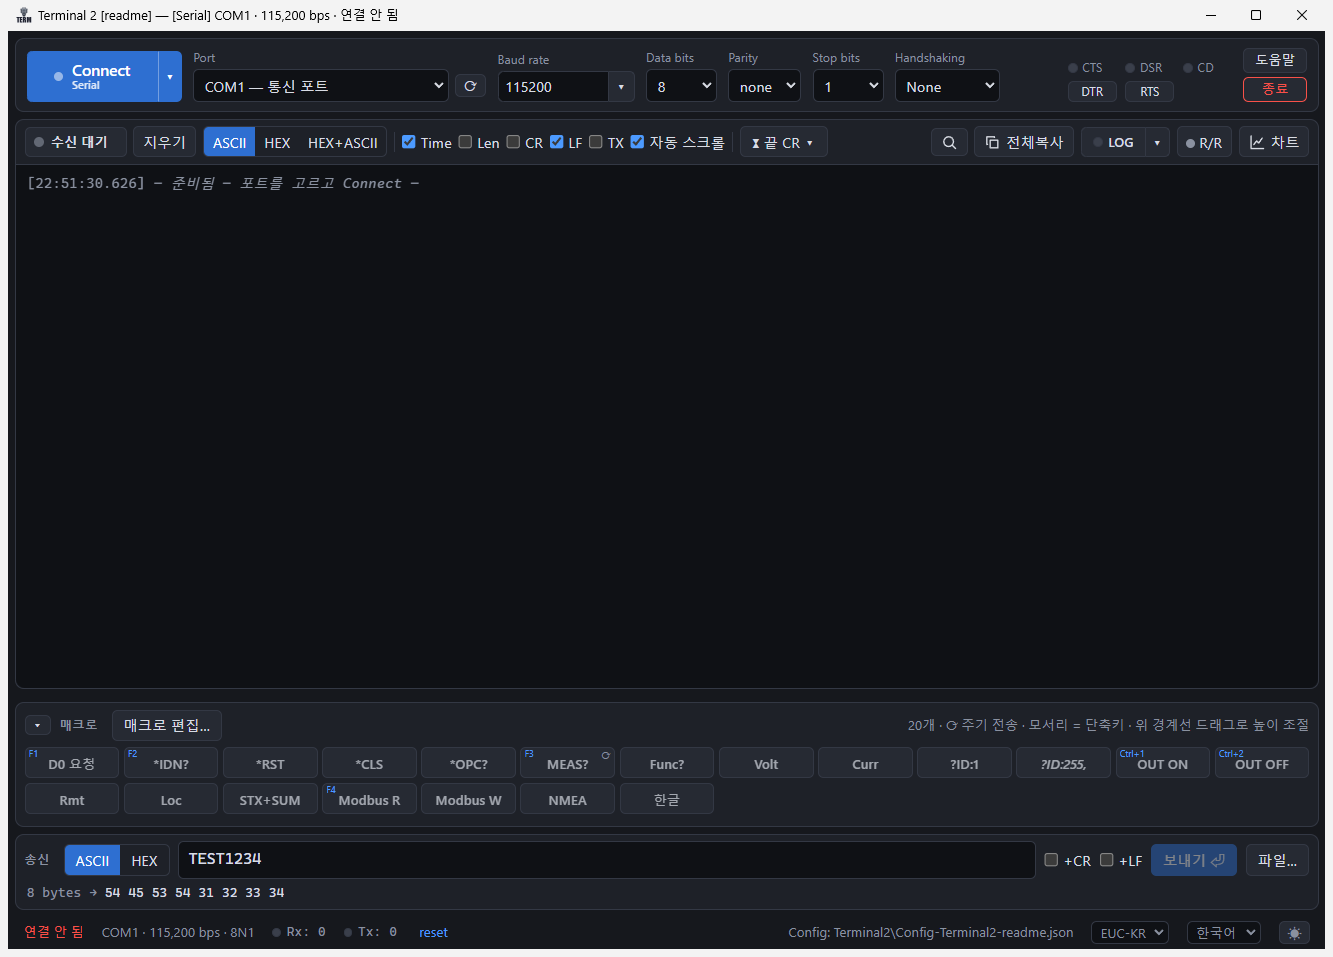
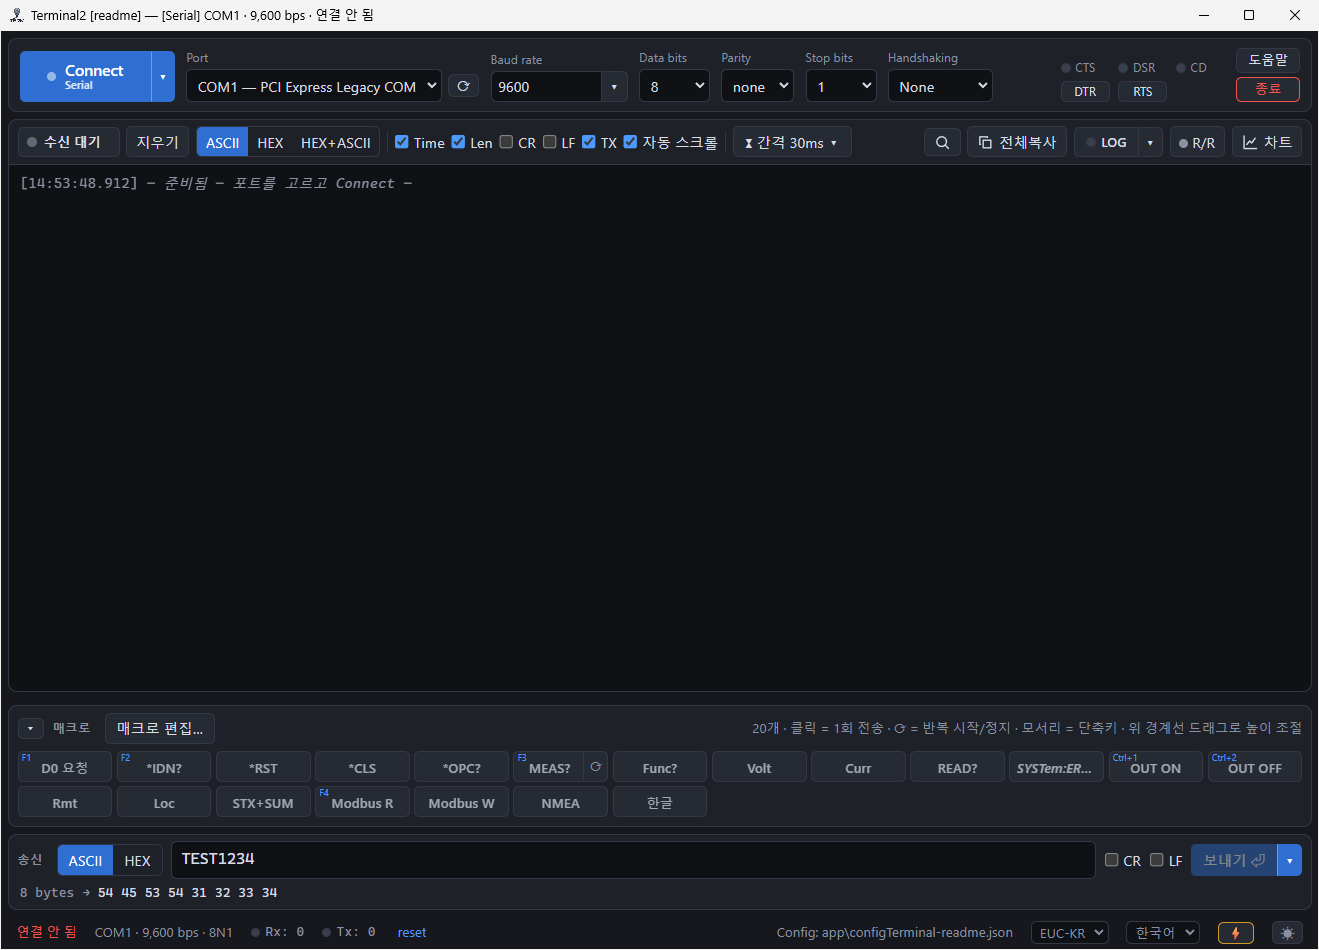
공개 준비: MIT 라이선스, README 최신 기능·화면 캡처 갱신

Changed region(s): [[0.0, 0.0, 1.0, 1.0], [0.5595, 0.7632, 0.5906, 0.8242], [0.5906, 0.7326, 0.6217, 0.7632]]

diff --git a/README.md b/README.md
@@ -12,11 +12,13 @@ Windows용 시리얼 / TCP / UDP 터미널입니다. 예전 Win32 프로그램 "
 - TCP Server: 여러 클라이언트를 받고, 전체 또는 특정 클라이언트에게 보냅니다. 수신 줄 앞에 `[IP:port]`가 붙습니다.
 - UDP: 로컬/원격 주소와 포트, Broadcast.
 - 최근 연결한 주소를 방식별로 20개까지 기억합니다.
+- 연결 중에도 포트, 속도, 데이터 비트, 패리티 같은 시리얼 설정을 바꿀 수 있습니다. 바꾸면 끊지 않고 새 설정으로 다시 엽니다.
 
 **수신과 송신**
 - 표시 방식: ASCII / HEX / HEX+ASCII. 시간과 길이 표시, 찾기, 복사.
 - 패킷 구분: 시간 간격 / 끝 문자(LF·CR·ETX) / 길이 바이트.
-- 매크로: 단축키, 주기 전송, 체크섬(SUM8, XOR8, LRC8, CRC16 Modbus/CCITT/XMODEM, CRC32).
+- 매크로: 단축키, 주기 전송, 체크섬(SUM8, XOR8, LRC8, CRC16 Modbus/CCITT/XMODEM, CRC32). 버튼을 누르면 한 번 보내고, 버튼 오른쪽 ⟳을 누르면 주기 전송을 시작하거나 멈춥니다.
+- 매크로 편집 창: ▶ 버튼이나 Ctrl+Enter로 고친 내용을 저장하기 전에 바로 보내 볼 수 있습니다. 창을 열어 둔 채 메인 화면도 쓸 수 있습니다.
 - R/R(Request/Response) 자동 응답: 와일드카드, 정규식, 체크섬 검증. 응답에 요청 바이트를 `R[n]`으로 넣을 수 있습니다.
 - 파일 전송(보내기 ▾): 줄 단위 / 파일 전체 / N바이트씩, 간격(ms), 반복 횟수. 줄 단위에서는 `<CR>` 같은 표기를 바이트로 바꾸고, 특정 문자열로 시작하는 줄(예: 로그의 응답 줄)을 뺄 수 있습니다.
 - 한글 인코딩: EUC-KR / UTF-8.
@@ -80,3 +82,7 @@ app/src/
 ## 기술 스택
 
 Electron 44, React 19, TypeScript 7, Vite 7 (electron-vite), Zustand 5, serialport 13, ECharts 6, electron-builder, vitest
+
+## 라이선스
+
+[MIT](LICENSE)
